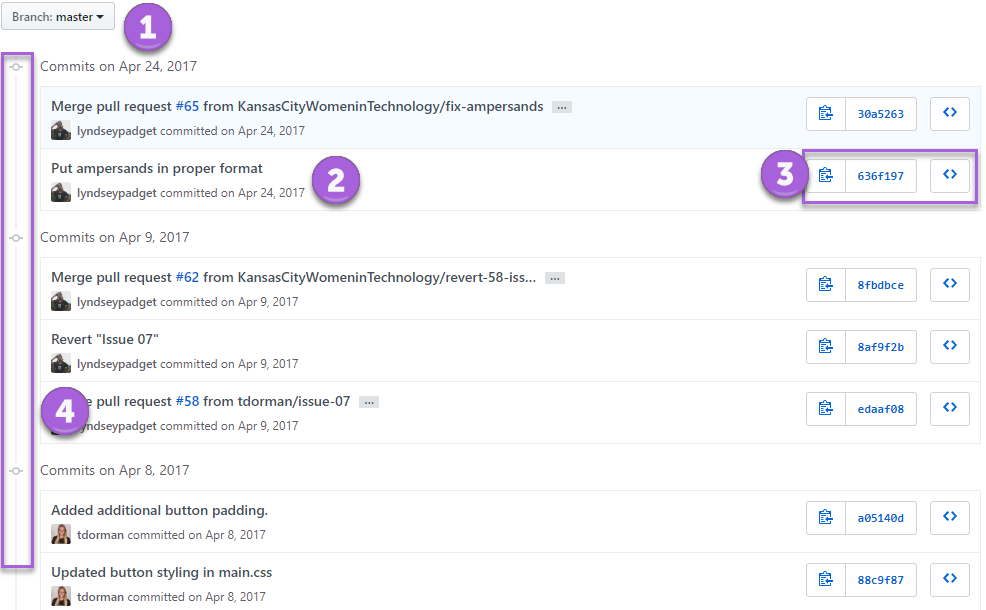
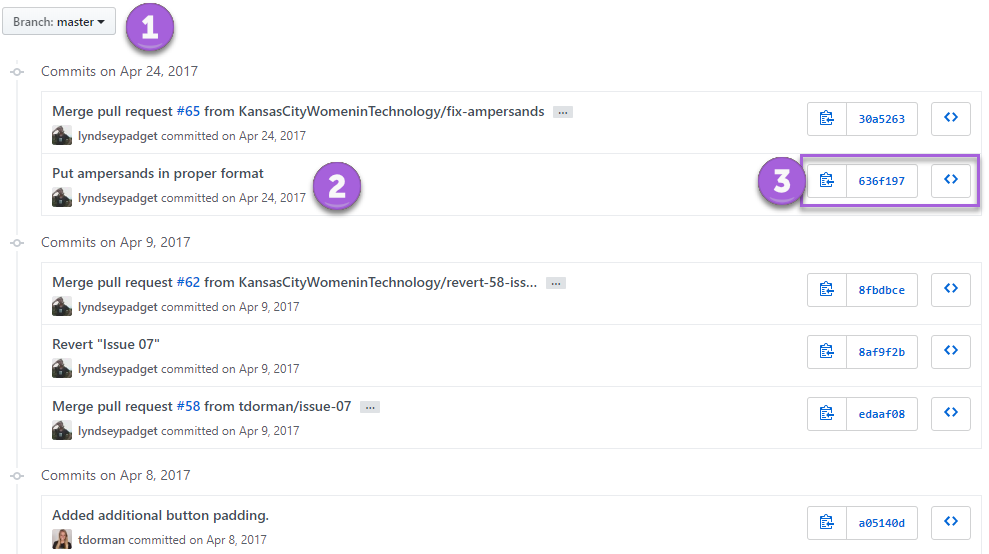
mostly finished with chunk 1. starting chunk 2

diff --git a/docs/ws1-inspect/2clone.md b/docs/ws1-inspect/2clone.md
@@ -47,8 +47,30 @@ Windows users - Navigate to your home directory by typing %USERPROFILE% in the f
      <i class="fa fa-circle fa-stack-2x help-annotations"></i>
      <strong class="fa-stack-1x help-annotations-text">5</strong>
    </span>
-   The path for all the branches in an unified view
+   The paths for all the branches in an unified view (aka "Git tree")
 
    ![](images/gitkraken-repo.png)
   
-1. Let's poke around in here.
+1. Take a look at the list branches available in the repository (circle #2). Click on a different branch in the list, such as the one named "jquery-master". Notice a different commit highlights and the commit information on the right (circle #3) changes. Feel free to click on different branches (you can't break anything).
+   {% hint style='info' %}
+Right click shows more options. We'll cover most of these options later in the session.
+  {% endhint %} 
+
+1. Select a file from the list of files modified (circle #4). The main view changes to show the difference between old version and current version like we saw in GitHub. Click on the "X" at the top of the main view above the checkbox for **Ignore white space**. 
+
+1. Double click on a branch, such as the one named "jquery-master". Notice your selected branch changed (circle #1). You may have also noticed a message appear and disappear. You switched branches and the **LOCAL** list of branches on the list now contains "jquery-master". We'll cover more about this a little later tonight. 
+
+1. Now let's turn our attention towards the Git tree. This shows all the branches in an unified view and how each path converges and diverges. Each branch is a different color. Circles with faces or robots insides are commits and solid circles show where two branches meet.  
+   {% hint style='info' %}
+It looks like a maze, but using this view we can trace revisions and see how a change affects the project as a whole. The ability to create branches in version control allows large groups of people can work independently and still collaborate on a single project.   
+  {% endhint %} 
+
+1. Right click on "jquery-master" in the left panel with the list of all the branches. Select **Solo** as shown in the picture below.
+
+   ![](images/gitkraken-view-one-branch.png)
+
+   The tree view zooms in and only displays the "jquery-master" branch. Select **Solo** again to revert to the tree view.
+   {% hint style='info' %}
+Targeting one branch in a view makes identifying changes easier. This is the same view we had in GitHub when we saw all the commits for the selected branch.
+  {% endhint %} 
+

diff --git a/docs/ws1-inspect/1github.md b/docs/ws1-inspect/1github.md
@@ -2,7 +2,7 @@
 
 1. Let's find a repository. Search for "KansasCityWomeninTechnology/DrinkOrderApp" using **Search GitHub** in the toolbar at the top of the page. Click on the repository result.
    {% hint style='info' %}
-GitHub is a big place! Sometimes there are many respositories with the same name. In this search we are searching repositories named "DrinkOrderApp" by the user "KansasCityWomeninTechnology". 
+GitHub is a big place! Sometimes there are many repositories with the same name. In this search we are searching repositories named "DrinkOrderApp" by the user "KansasCityWomeninTechnology". 
     {% endhint %}
 
 1. We see an overview for a repository. Let's inspect a little closer. GitHub displays information about the repository such as 
@@ -65,16 +65,16 @@ It might look like random letters and numbers, but it's not! This is the unique 
    ![](images/diff.png)
 
    The pink highlights show the previous version and the light green highlights are the new version. The darker red highlights shows the deleted characters and the dark green highlights show the added characters.
+   {% hint style='info' %}
+This is more commonly known by its abbreviated name, "diff view".
+   {% endhint %}
 
 1. Click the <i class="fa fa-arrow-left" aria-hidden="true"></i> button in Chrome to navigate back to the list of commits.
 
-1. Click on the button to the right (the one that looks like <span class="octicon octicon-code"></span> ). Now you are browsing the repository files as they were in this commit. You have a picture of the entire repository every step of the way!
+1. Click on the button to the right (the one that looks like <span class="octicon octicon-code"></span>). Now you are browsing the repository files as they were in this commit. You have a picture of the entire repository every step of the way!
 
 1. Click the <i class="fa fa-arrow-left" aria-hidden="true"></i> button in Chrome to navigate back to the list of commits.
 
-1. Take a look at the left vertical line outlined by circle #4. The <span class="octicon octicon-git-commit"></span> icon shows each commit made to the selected branch and there's a line between each commit, forming a path. Each branch represents its changes this way. Select a different branch using the **Branch** combobox to see this in action. 
-
-JAD TODO Potentially remove #4??
 
 
 

diff --git a/docs/ws2-create/1create.md b/docs/ws2-create/1create.md
@@ -1,0 +1,38 @@
+1. In GitHub, create a new repository by clicking the <span class="octicon octicon-plus"></span> button in the upper right corner. Select **New repository**.
+   
+   ![](images/new-repo.png)
+
+1. Name your repository "MyFirstRepo". Add a short description and check the **Initialize this repository with a README** checkbox. Click **Create repository**.
+
+   ![](images/create-repo.png)
+
+    {% hint style='tip' %}
+You can ignore the **Add .gitignore** and **Add a license** dropdowns for the time being.  You won't need them for what we are doing this evening.
+    {% endhint %}
+
+1. You now have a repo! Notice you're automatically on 'master' branch. Click the green **Clone or download** button and copy the link by clicking on the <span class="octicon octicon-clippy"></span> button.
+
+1. Open your terminal and navigate to "CodingAndCocktails/Session4" folder in your home directory. If you are already in "DrinkOrderApp", you can type `cd ..` <i class="fa fa-share fa-rotate-180"></i>.
+
+1. Type `git clone` and paste the link to your repository that you copied in the previous step. Press `Enter`.
+
+1. Type `ls` <i class="fa fa-share fa-rotate-180"></i>. You should see a new folder named "MyFirstRepo". 
+
+1. Navigate into the directory by typing `cd MyFirstRepo` <i class="fa fa-share fa-rotate-180"></i>. Notice your terminal now contains the name of the branch 'master'.
+
+   {% hint style='tip' %}
+Don't forget to use Tab completion to make typing in the terminal easier!
+   {% endhint %}
+
+1. Type `ls -al` <i class="fa fa-share fa-rotate-180"></i>. You should see the following files
+   ```
+   ./
+   ../
+   .git/
+   README.md
+   ```
+
+1. Type `cat README.md` <i class="fa fa-share fa-rotate-180"></i>. You should see the contents of the read me text, which is the same text displayed in GitHub repo page.
+
+1. Git has special files. One of them is the ".git" folder. It contains all the information on reconstructing the version history for your repo.  
+

diff --git a/docs/ws1-inspect/README.md b/docs/ws1-inspect/README.md
@@ -17,15 +17,14 @@ This section will help guide you through the following steps:
 {% include "./1github.md" %}
 
 ## Clone a repository {#clone} <span class="navigate-top"><a href="#top" title="Take me to the top of page"><i class="fa fa-chevron-circle-up" aria-hidden="true"></i></a></span>
-Now let's look at the same repository using a Git GUI tool called GitKraken. We'll clone the repository to our machines and see a unified visualization of the separate branches and paths we inspected earlier. 
+Let's look at the same repository using a Git GUI tool called GitKraken. We'll clone the repository to our machines and see a unified visualization of the separate branches and paths we inspected earlier. 
 {% include "./2clone.md" %}
-
 
 <!-- trick markdown to give me a little space between these two sections of text -->
 ## 
 
 ## References and helpful links <span class="navigate-top"><a href="#top" title="Take me to the top of page"><i class="fa fa-chevron-circle-up" aria-hidden="true"></i></a></span>
-[Mozilla Developer Network CSS reference documentation](https://developer.mozilla.org/en-US/docs/Web/CSS/Reference)
+[Atlassian Git Tutorial-- What is version control](https://www.atlassian.com/git/tutorials/what-is-version-control)
 
 
 <!-- trick markdown to give me a little space between these two sections of text -->

diff --git a/docs/ws1-inspect/chromebook-instructions.md b/docs/ws1-inspect/chromebook-instructions.md
@@ -1,0 +1,1 @@
+JAD TODO - Add some info here!
